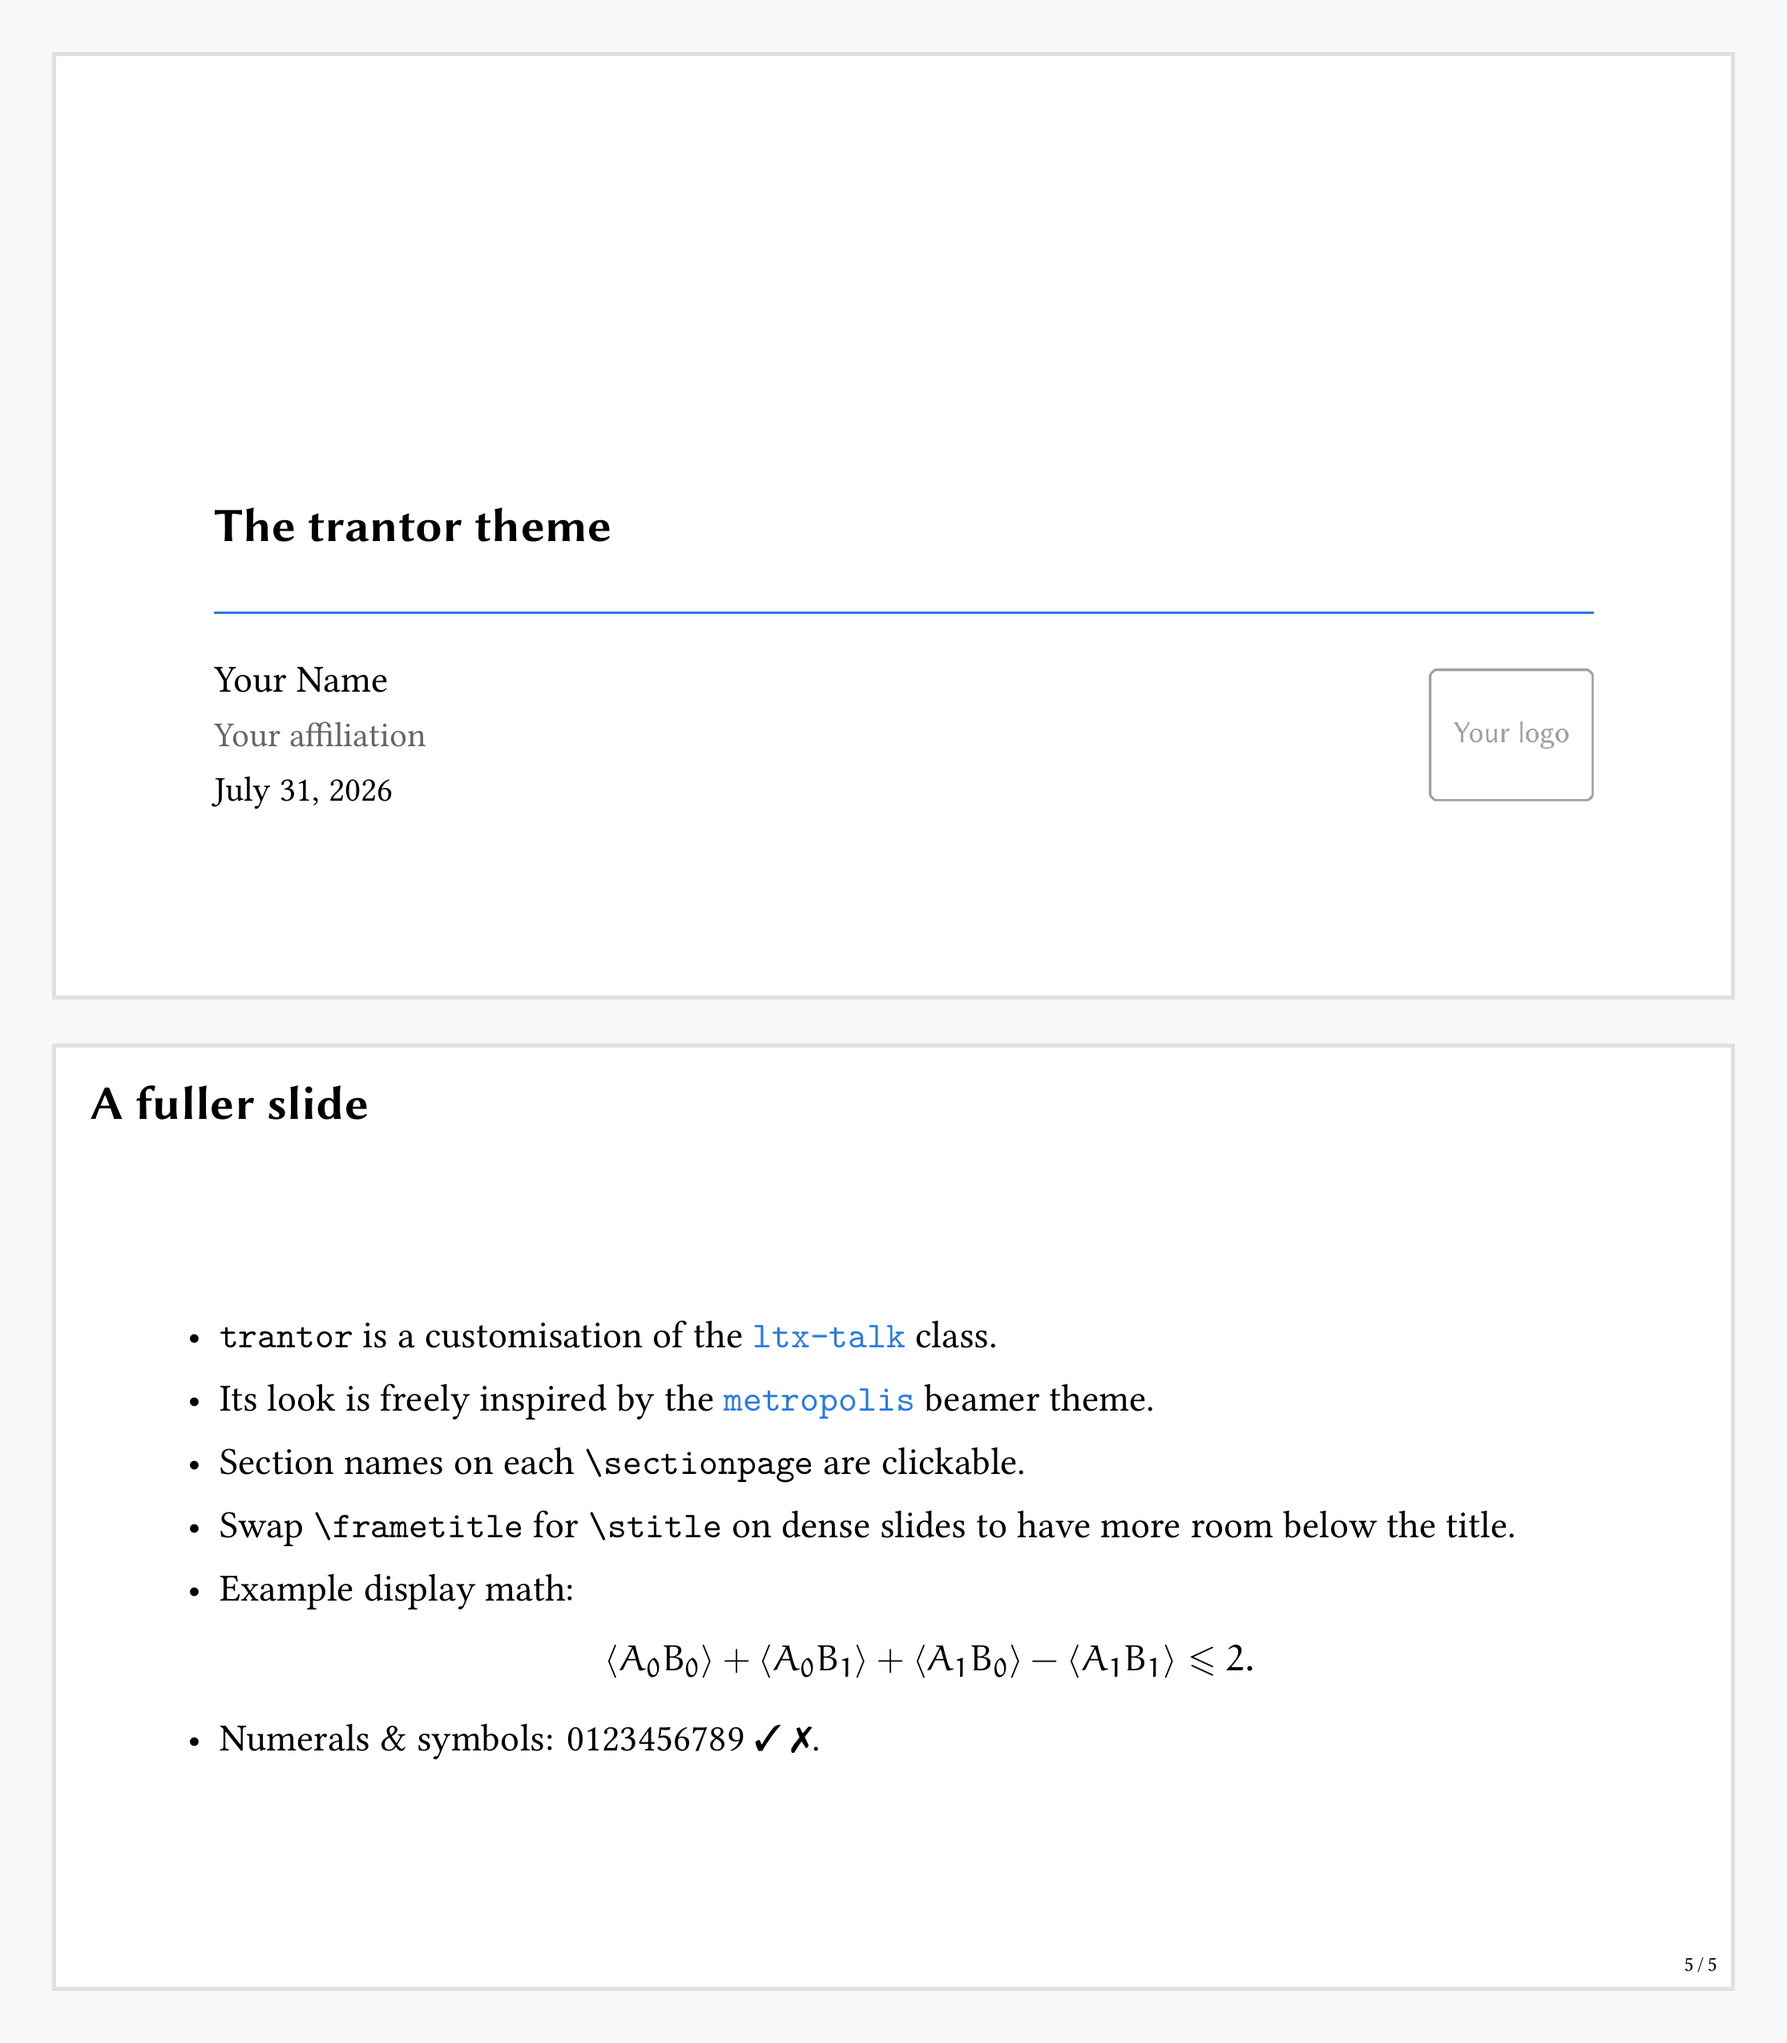
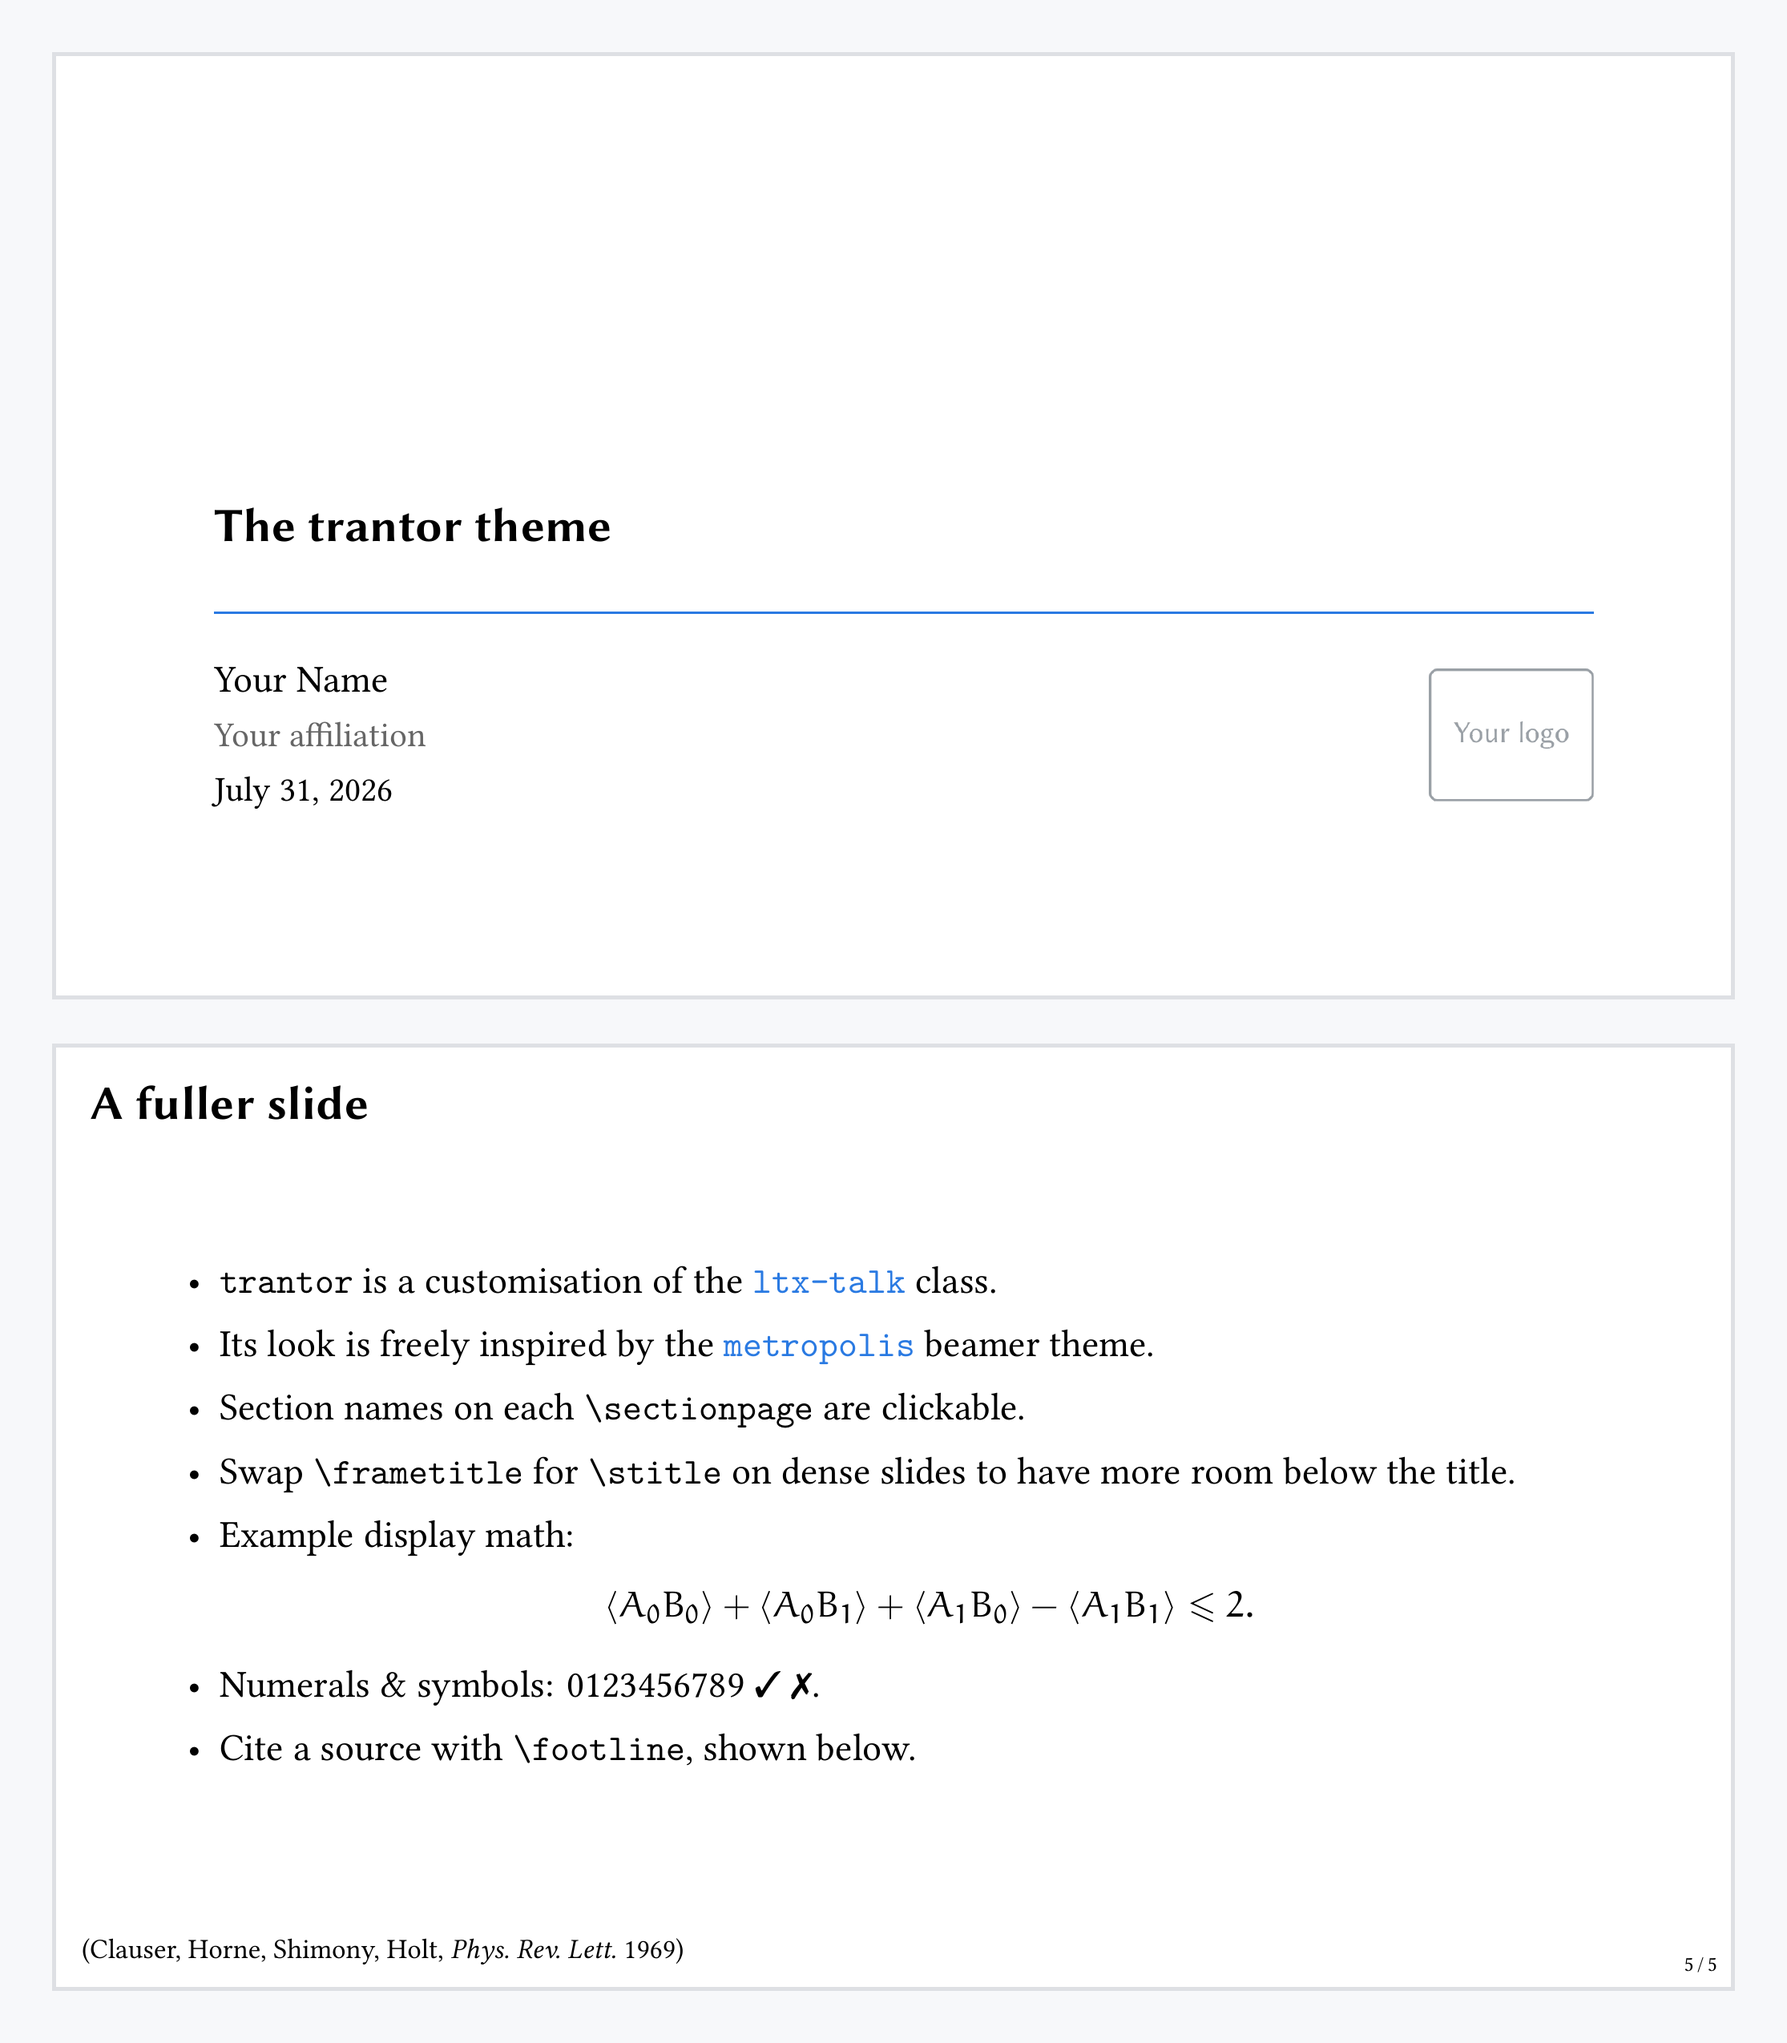
Add \footline command for reference citations

diff --git a/slides.tex b/slides.tex
@@ -54,8 +54,10 @@
          \langle A_1 B_0\rangle - \langle A_1 B_1\rangle \le 2 .
          \]
        \item Numerals \& symbols: 0123456789 \yes\ \no.
+       \item Cite a source with \texttt{\textbackslash footline}, shown below.
   \end{itemize}
-  
+
+  \footline{(Clauser, Horne, Shimony, Holt, \emph{Phys.~Rev.~Lett.}~1969)}
 \end{frame}
 
 \end{document}

diff --git a/README.md b/README.md
@@ -40,6 +40,8 @@ The second pass fills in the table of contents on the section pages.
 - **Title spacing.** Use `\stitle{...}` instead of `\frametitle{...}` on dense
   slides to keep a clear gap below the title.
 - **Tick and cross.** `\yes` and `\no` give a check mark and a cross.
+- **Reference footnote.** `\footline{...}` pins a small citation to the
+  bottom-left of the slide.
 
 ## Building
 
